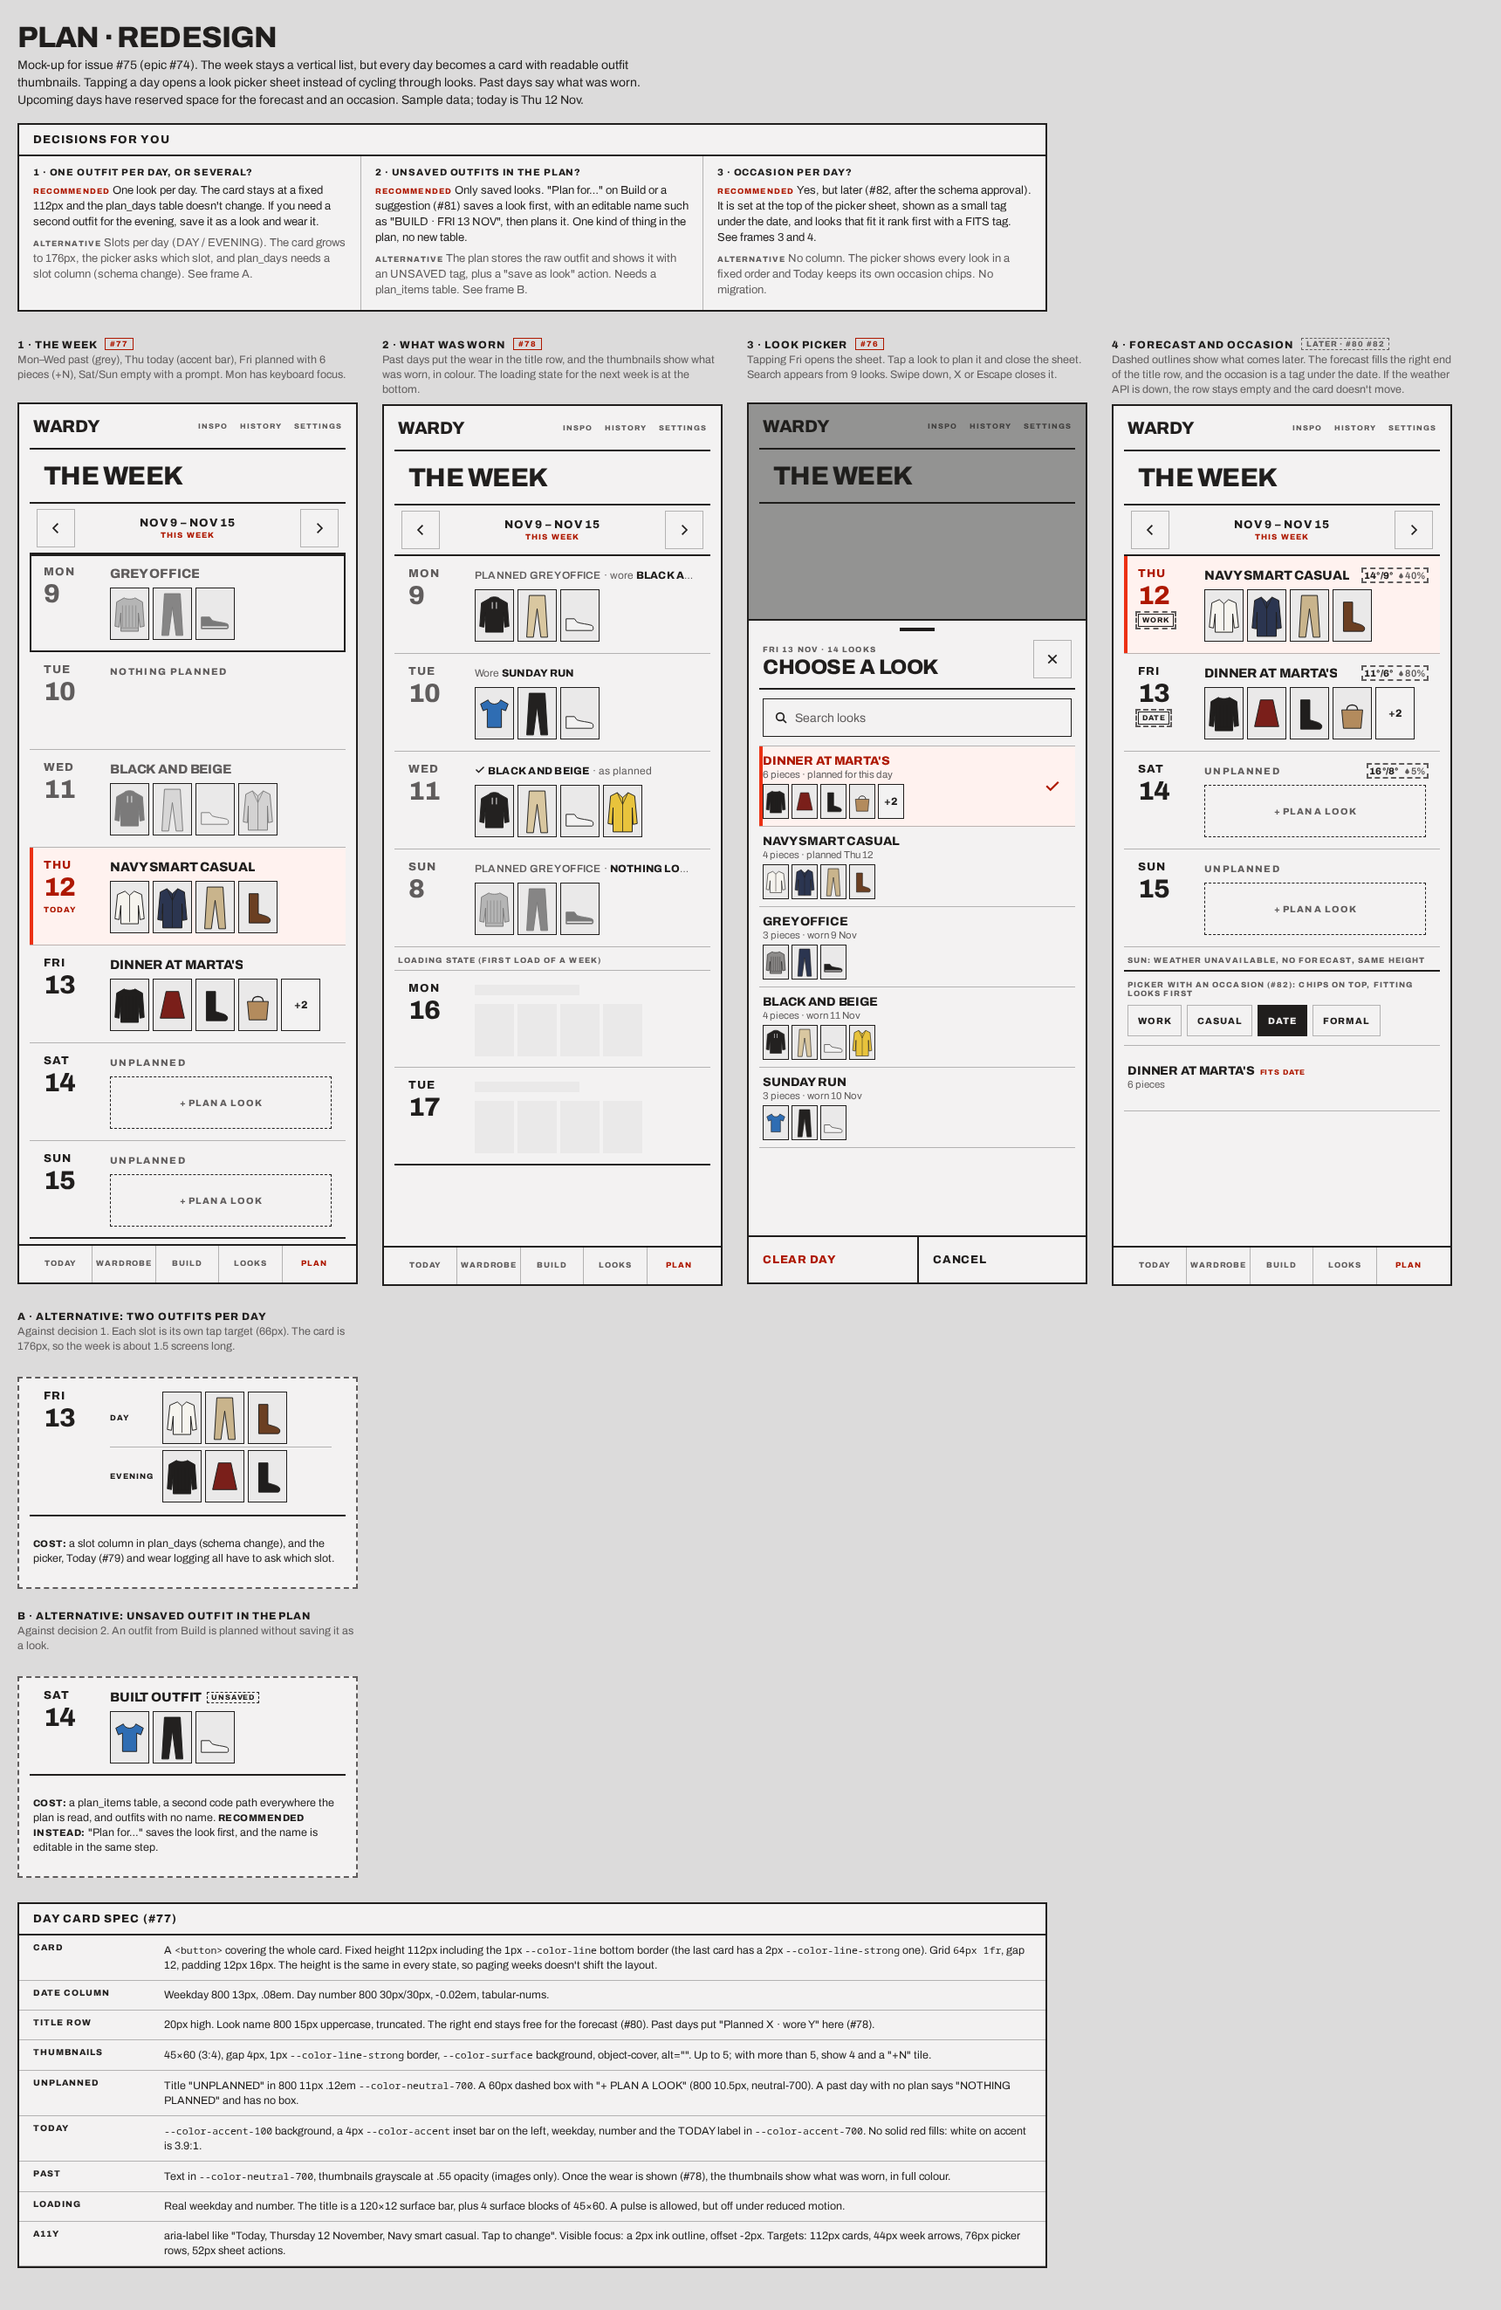
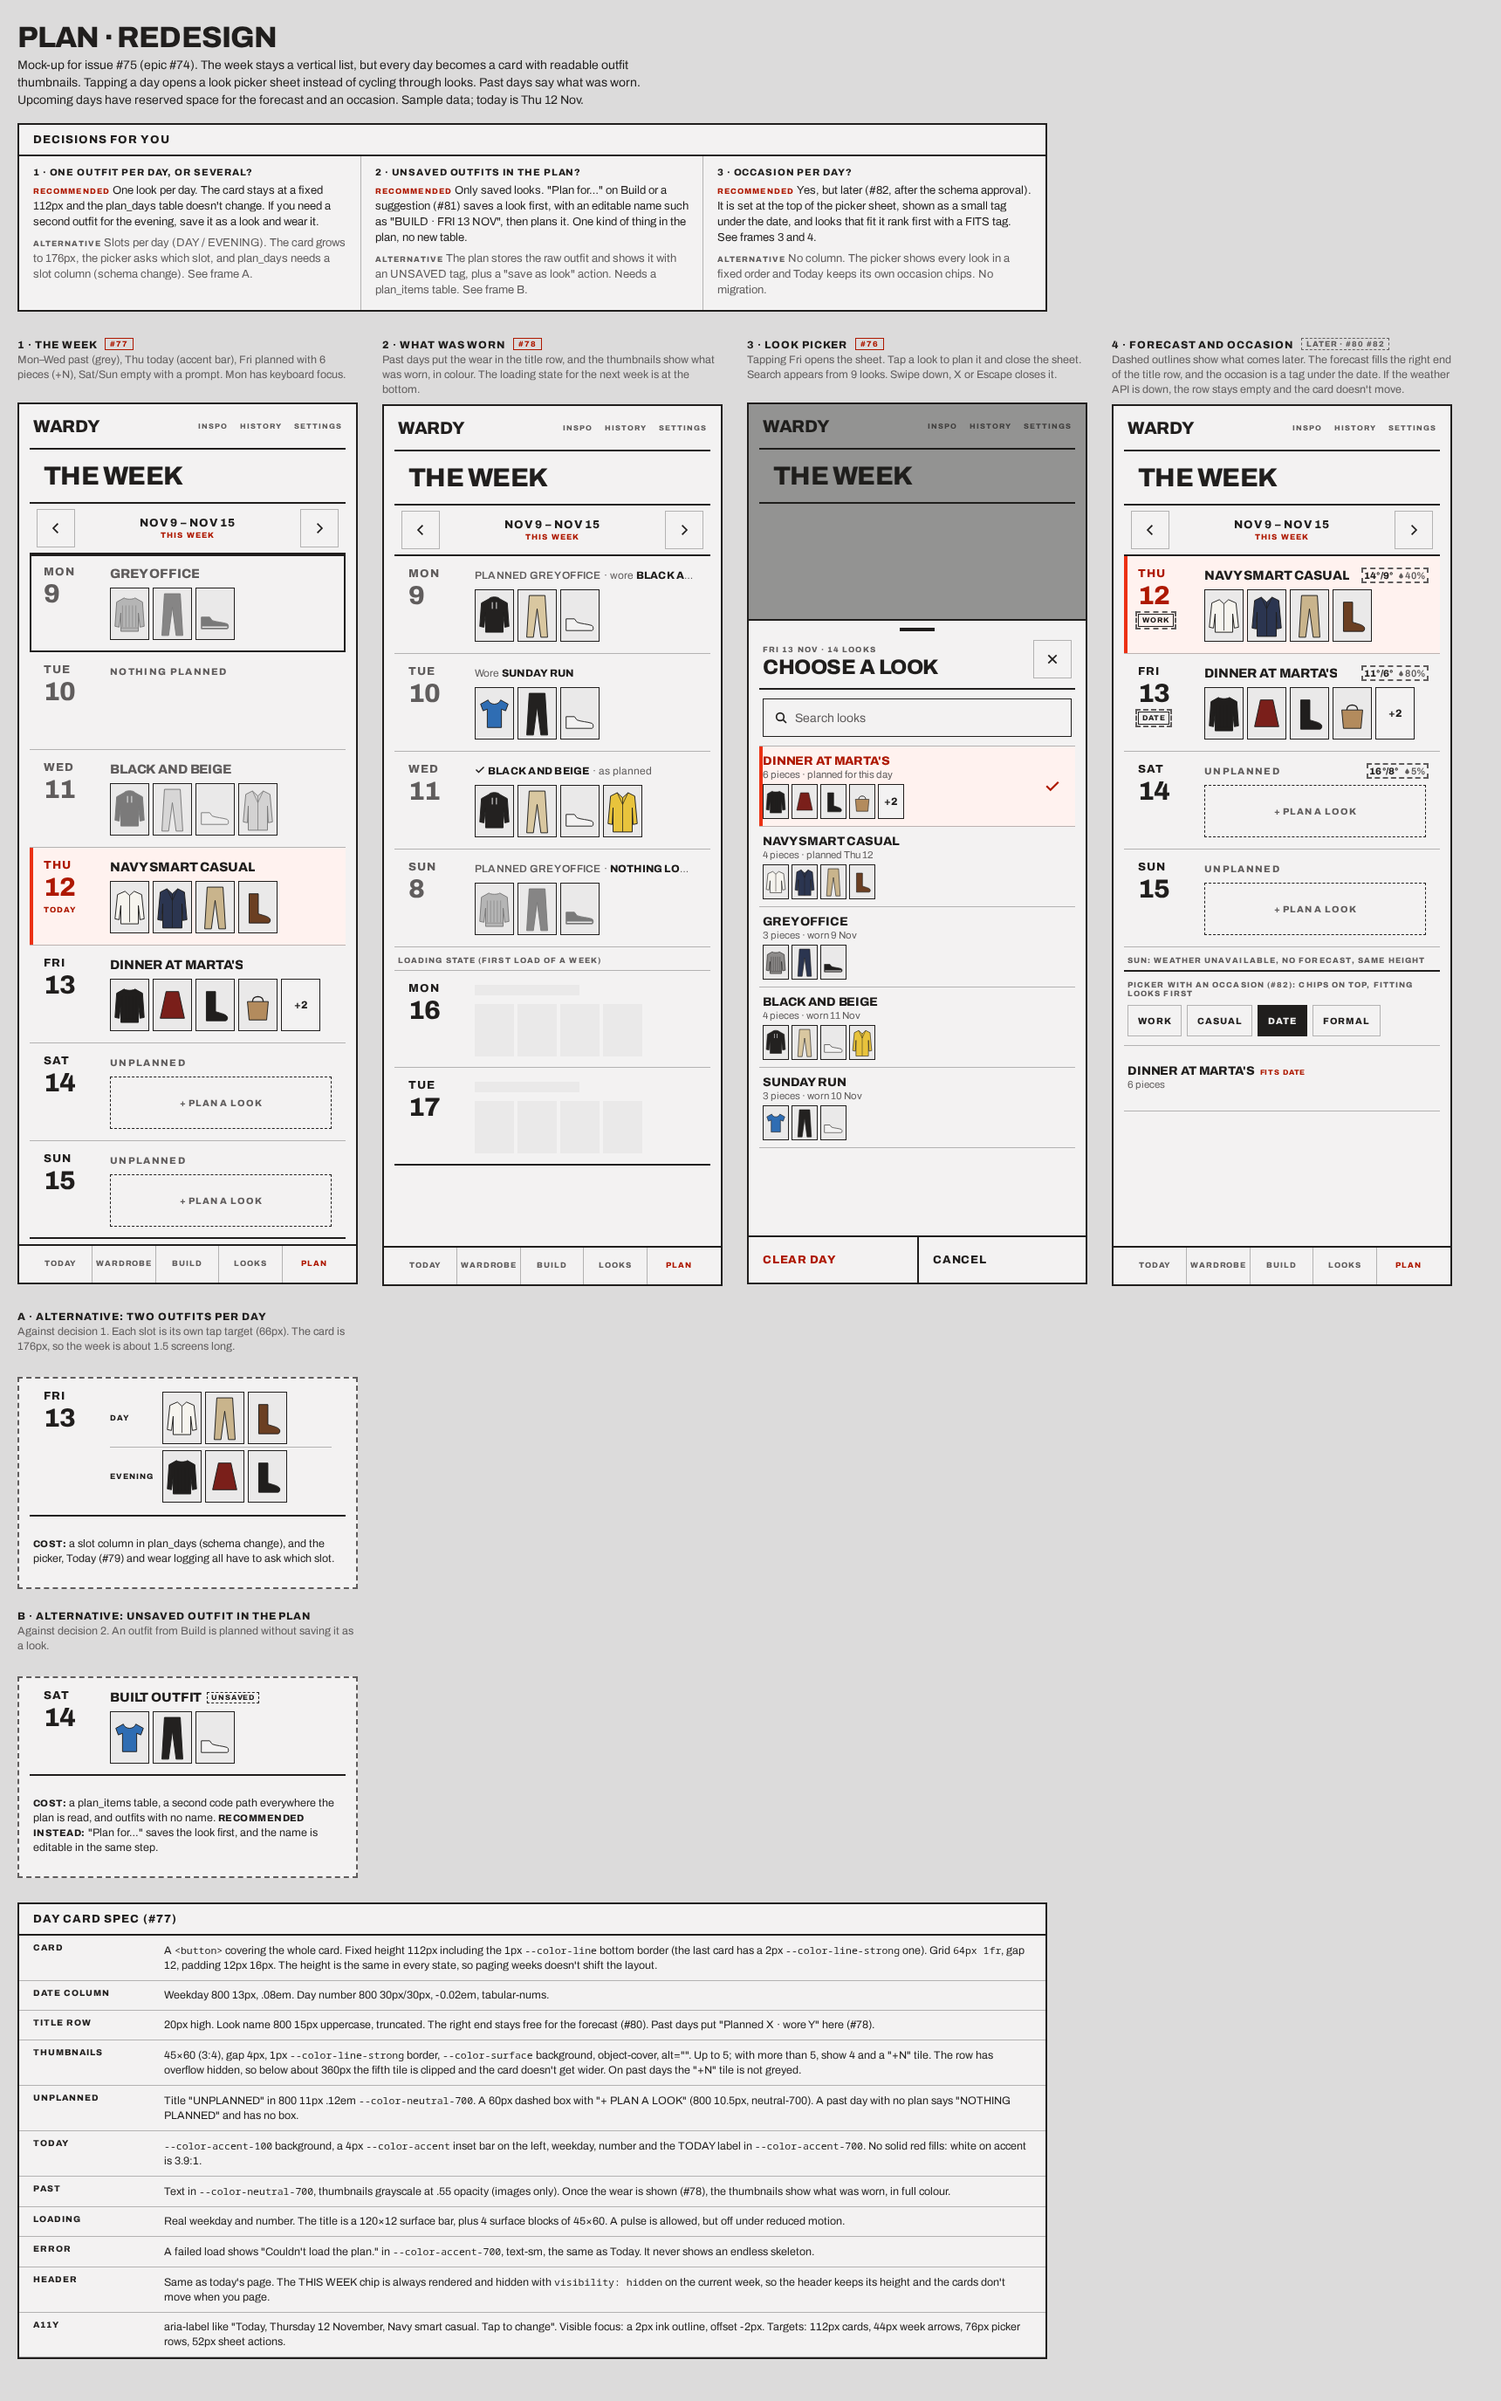
Plan mock-up: match the day card implementation
Add the error state and the header chip that keeps its space, and note that the thumbnails clip below 360px.

diff --git a/docs/mockups/plan.html b/docs/mockups/plan.html
@@ -411,11 +411,13 @@
       <tr><th>Card</th><td>A <code>&lt;button&gt;</code> covering the whole card. Fixed height 112px including the 1px <code>--color-line</code> bottom border (the last card has a 2px <code>--color-line-strong</code> one). Grid <code>64px 1fr</code>, gap 12, padding 12px 16px. The height is the same in every state, so paging weeks doesn't shift the layout.</td></tr>
       <tr><th>Date column</th><td>Weekday 800 13px, .08em. Day number 800 30px/30px, -0.02em, tabular-nums.</td></tr>
       <tr><th>Title row</th><td>20px high. Look name 800 15px uppercase, truncated. The right end stays free for the forecast (#80). Past days put "Planned X · wore Y" here (#78).</td></tr>
-      <tr><th>Thumbnails</th><td>45×60 (3:4), gap 4px, 1px <code>--color-line-strong</code> border, <code>--color-surface</code> background, object-cover, alt="". Up to 5; with more than 5, show 4 and a "+N" tile.</td></tr>
+      <tr><th>Thumbnails</th><td>45×60 (3:4), gap 4px, 1px <code>--color-line-strong</code> border, <code>--color-surface</code> background, object-cover, alt="". Up to 5; with more than 5, show 4 and a "+N" tile. The row has overflow hidden, so below about 360px the fifth tile is clipped and the card doesn't get wider. On past days the "+N" tile is not greyed.</td></tr>
       <tr><th>Unplanned</th><td>Title "UNPLANNED" in 800 11px .12em <code>--color-neutral-700</code>. A 60px dashed box with "+ PLAN A LOOK" (800 10.5px, neutral-700). A past day with no plan says "NOTHING PLANNED" and has no box.</td></tr>
       <tr><th>Today</th><td><code>--color-accent-100</code> background, a 4px <code>--color-accent</code> inset bar on the left, weekday, number and the TODAY label in <code>--color-accent-700</code>. No solid red fills: white on accent is 3.9:1.</td></tr>
       <tr><th>Past</th><td>Text in <code>--color-neutral-700</code>, thumbnails grayscale at .55 opacity (images only). Once the wear is shown (#78), the thumbnails show what was worn, in full colour.</td></tr>
       <tr><th>Loading</th><td>Real weekday and number. The title is a 120×12 surface bar, plus 4 surface blocks of 45×60. A pulse is allowed, but off under reduced motion.</td></tr>
+      <tr><th>Error</th><td>A failed load shows "Couldn't load the plan." in <code>--color-accent-700</code>, text-sm, the same as Today. It never shows an endless skeleton.</td></tr>
+      <tr><th>Header</th><td>Same as today's page. The THIS WEEK chip is always rendered and hidden with <code>visibility: hidden</code> on the current week, so the header keeps its height and the cards don't move when you page.</td></tr>
       <tr><th>A11y</th><td>aria-label like "Today, Thursday 12 November, Navy smart casual. Tap to change". Visible focus: a 2px ink outline, offset -2px. Targets: 112px cards, 44px week arrows, 76px picker rows, 52px sheet actions.</td></tr>
     </table>
   </section>
